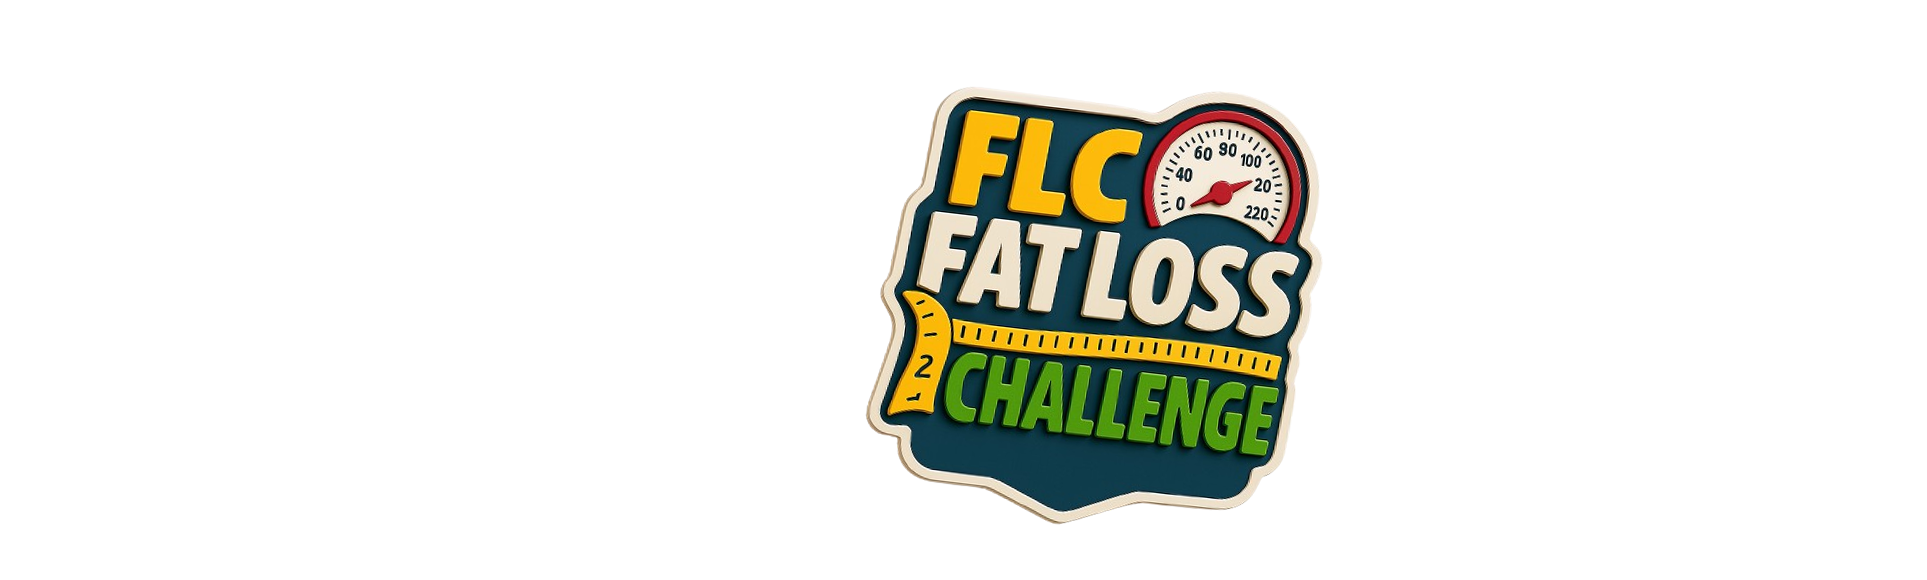
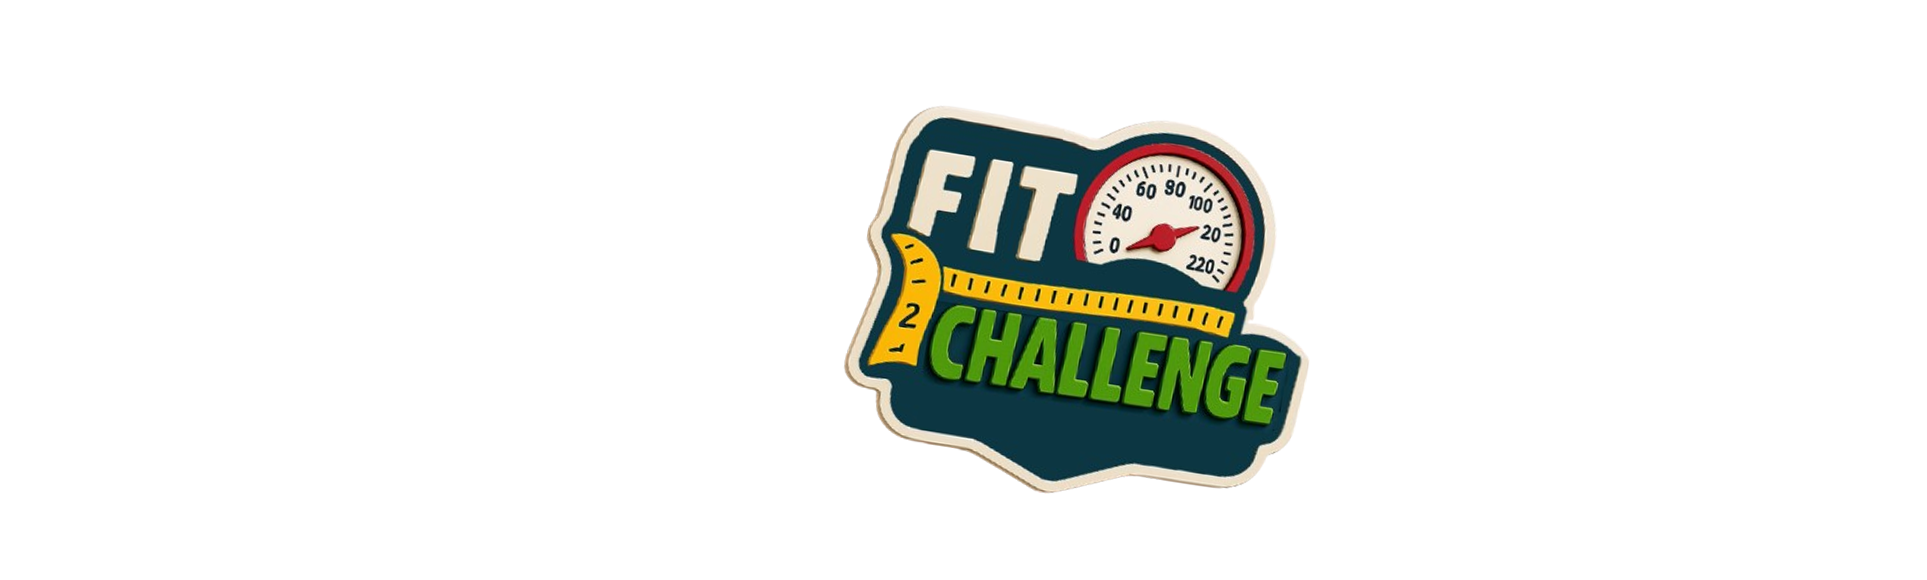
UPDATE
UPDATE

Changed region(s): [[0.4359, 0.1552, 0.685, 0.9]]

diff --git a/index.html b/index.html
@@ -375,7 +375,7 @@ Terdiri atas beberapa file Google Sheet sebagai Database :
       </section>
       
       <!--Gabung program beratidealku-->
-      <section class="section cta-creative media-overlay" id="tantanganFIT" style="align-self: flex-end; width: 50%; background-image:url('images/LogoFITChallenge.png')" alt="Lomba turun berat badan online - Kompetisi penurunan berat badan - Tantangan turun berat badan - Program diet kompetitif - Kontes penurunan berat badan">
+      <section class="section cta-creative media-overlay" id="tantanganFIT" style="background-image:url('images/LogoFITChallenge.png')" alt="Lomba turun berat badan online - Kompetisi penurunan berat badan - Tantangan turun berat badan - Program diet kompetitif - Kontes penurunan berat badan">
         <div class="container">
           <div class="row row-30">
             <div class="col">
